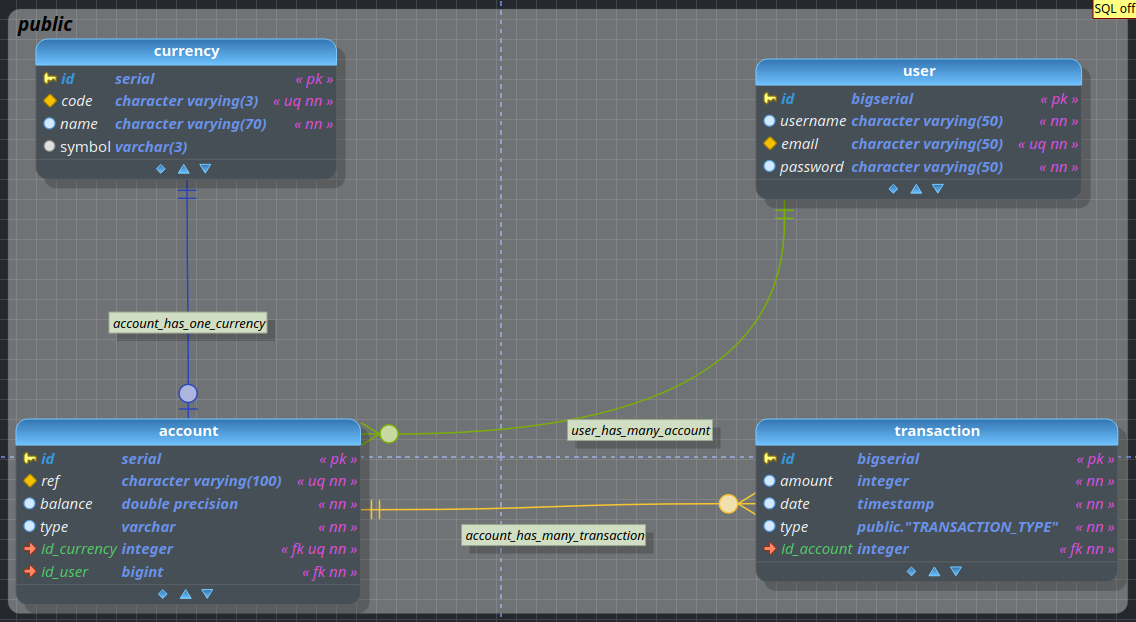
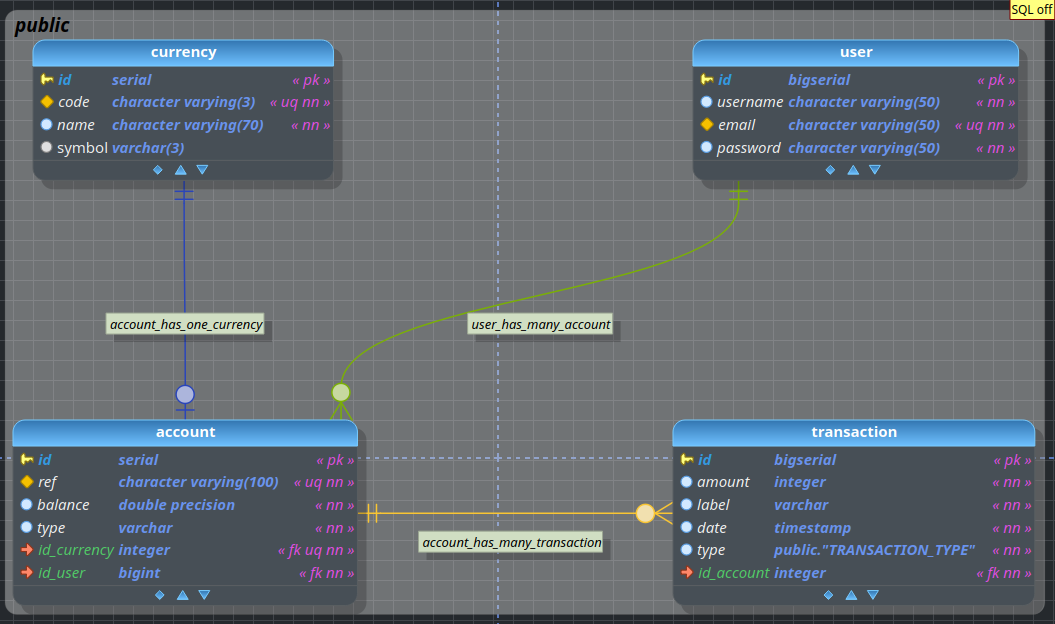
feat: added label field in transaction (#6)
* feat: updated Account model

* chore: renamed methods

* feat: updated Currency model

* feat: updated TransactionType

* feat: updated User model

* chore: updated workspace

* chore: updated .gitignore

* feat: updated Account model

* refactor: renamed Transaction fields

* feat: save method optimizations

* feat: created User repository

* feat: removed User filed to avoid redundancy

* feat: new constructor and fields

* chore: workspace update

* chore: updated README

* chore: updated workspace

* chore: make accounts field final

* refactor: AccountCrudOperations methods

* fix: type mismatch in TransactionCrudOperations

* chore: removed DELETE /user

* feat: implemented CurrencyCrudOperations

* fix: mismatched property values for Currency queries

* feat: migrated JDK to corretto-20

* feat: implemented relational fields in queries

* feat: added read tests for User

* feat: added missing field in Transaction

* feat: added missing field in transaction

* feat: updated database schema

* fix: sql constraints

diff --git a/src/main/java/org/example/repository/TransactionCrudOperations.java b/src/main/java/org/example/repository/TransactionCrudOperations.java
@@ -50,12 +50,13 @@ public class TransactionCrudOperations implements CrudOperations<Transaction> {
             return isSaved(toSave) ? findAll().get(0) : null;
         } else if (findById(toSave.getId()) != null) {
             return qt.executeUpdate(
-                    "UPDATE transaction SET amount=?, date=?, type=?::\"TRANSACTION_TYPE\" WHERE id=?",
+                    "UPDATE transaction SET amount=?, label=?, date=?, type=?::\"TRANSACTION_TYPE\" WHERE id=?",
                     ps -> {
                         ps.setDouble(1, toSave.getAmount());
-                        ps.setTimestamp(2, toSave.getDate());
-                        ps.setString(3, toSave.getType().toString());
-                        ps.setInt(4, toSave.getId());
+                        ps.setString(2, toSave.getLabel());
+                        ps.setTimestamp(3, toSave.getDate());
+                        ps.setString(4, toSave.getType().toString());
+                        ps.setInt(5, toSave.getId());
                     }
             ) == 0 ? null : findById(toSave.getId());
         }
@@ -77,6 +78,7 @@ public class TransactionCrudOperations implements CrudOperations<Transaction> {
                 rs.getInt("id"),
                 rs.getDouble("amount"),
                 rs.getTimestamp("date"),
+                rs.getString("label"),
                 TransactionType.valueOf(
                         rs.getString("type").toUpperCase()
                 )
@@ -85,12 +87,13 @@ public class TransactionCrudOperations implements CrudOperations<Transaction> {
 
     private boolean isSaved(Transaction toSave) {
         return qt.executeUpdate(
-                "INSERT INTO transaction (id, amount, date, type) VALUES (?,?,?,?::\"TRANSACTION_TYPE\")",
+                "INSERT INTO transaction (id, amount, label, date, type) VALUES (?,?,?,?,?::\"TRANSACTION_TYPE\")",
                 ps -> {
                     ps.setInt(1, this.findAll().get(0).getId() + 1);
                     ps.setDouble(2, toSave.getAmount());
-                    ps.setTimestamp(3, toSave.getDate());
-                    ps.setString(4, toSave.getType().toString());
+                    ps.setString(3, toSave.getLabel());
+                    ps.setTimestamp(4, toSave.getDate());
+                    ps.setString(5, toSave.getType().toString());
                 }
         ) != 0;
     }

diff --git a/src/main/java/org/example/models/Transaction.java b/src/main/java/org/example/models/Transaction.java
@@ -5,12 +5,14 @@ import java.sql.Timestamp;
 public class Transaction {
     private final int id;
     private final double amount;
+    private final String label;
     private final Timestamp date;
     private final TransactionType type;
 
     public Transaction(int id, double amount, Timestamp date, TransactionType type) {
         this.id = id;
         this.amount = amount;
+        this.label = "Default";
         this.date = date;
         this.type = type;
     }
@@ -18,8 +20,29 @@ public class Transaction {
     public Transaction(double amount, Timestamp transactionDate, TransactionType transactionType) {
         this.id = 0;
         this.amount = amount;
+        this.label = "Default";
         this.date = transactionDate;
         this.type = transactionType;
+    }
+
+    public Transaction(double amount, Timestamp transactionDate, String label, TransactionType transactionType) {
+        this.id = 0;
+        this.amount = amount;
+        this.label = label;
+        this.date = transactionDate;
+        this.type = transactionType;
+    }
+
+    public Transaction(int id, double amount, Timestamp transactionDate, String label, TransactionType transactionType) {
+        this.id = id;
+        this.amount = amount;
+        this.label = label;
+        this.date = transactionDate;
+        this.type = transactionType;
+    }
+
+    public String getLabel() {
+        return label;
     }
 
     public int getId() {
